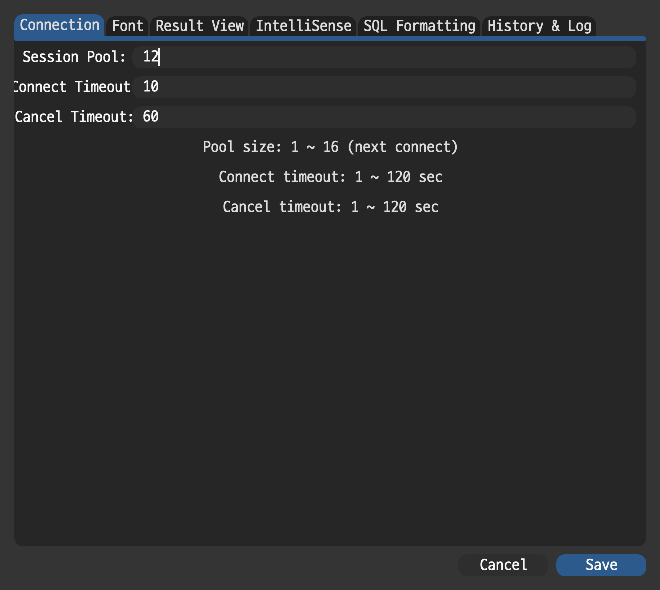
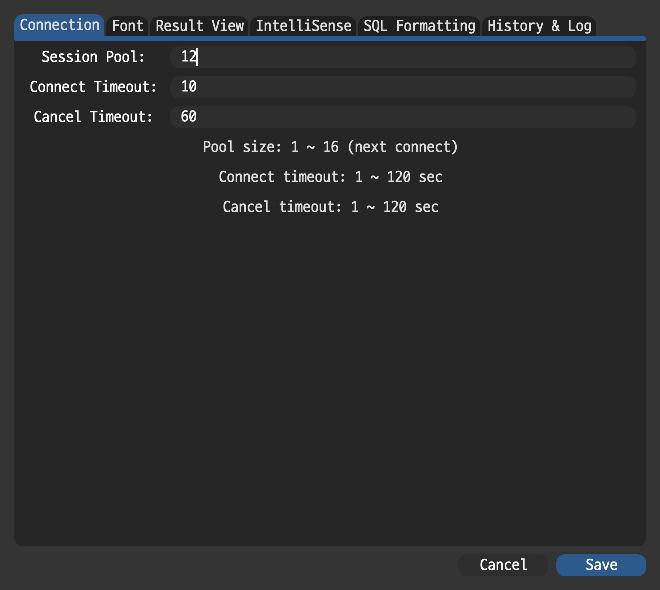
Measure the settings label column so long labels stop being clipped
The refreshed settings screenshot showed "Connect Timeout:" rendered as
"onnect Timeout". A Frame centers its label and clips both ends once the text
outgrows its box, and the label column was a fixed FORM_LABEL_WIDTH of 100px,
which "Connect Timeout:", "Cancel Timeout:", and "Context Window:" all exceed
at UI font size 16. The screenshot only exposed the Connection tab; the same
column is used by six.

The column is now measured from the widest label at the configured UI font
size, since that size is a setting and no constant can be right for all of it.
One width applies across every tab so the inputs stay aligned, and it never
goes below the old constant, so nothing that already fitted moves. Measuring
goes through Font::Helvetica because that is the slot apply_global_default_font
remaps to the configured UI font, so it measures what a label actually draws
with.

Also settle the two loose images. sql-formatting.png has been unreferenced
since an early doc update and is superseded by the before/after pair, so it is
removed. table-browse-order-popup.png was produced by the capture tour but
never shown; it goes into the README beside the WHERE popup, where it is the
evidence for the claim that IntelliSense works in both filter fields. Every
image under docs/images is now referenced, and every reference resolves.

Claude-Session: https://claude.ai/code/session_01CMnv3iN4EYBAmDyF7PbiyG

diff --git a/src/ui/settings_dialog.rs b/src/ui/settings_dialog.rs
@@ -50,6 +50,45 @@ pub struct FontSettings {
     pub app_log_limit: u32,
 }
 
+/// Every form label in this dialog, so one column width can fit them all.
+const FORM_LABELS: [&str; 13] = [
+    "Editor:",
+    "Result Font:",
+    "Global UI:",
+    "Screen Scale:",
+    "Cell Preview:",
+    "Lazy Fetch:",
+    "Context Window:",
+    "Popup Delay:",
+    "Session Pool:",
+    "Connect Timeout:",
+    "Cancel Timeout:",
+    "Comma Lists:",
+    "Right Margin:",
+];
+
+/// Width of the label column, wide enough for the longest label.
+///
+/// A `Frame` centers its label and clips both ends once the text outgrows its
+/// box, so a fixed [`FORM_LABEL_WIDTH`] silently ate the first character of
+/// `Connect Timeout:` and `Context Window:`. The UI font size is configurable,
+/// which is why the column is measured instead of assumed. `Font::Helvetica` is
+/// the slot [`apply_global_default_font`](crate::ui::font_settings) remaps to
+/// the configured UI font, so it measures what a label will actually draw with.
+fn form_label_width() -> i32 {
+    fltk::draw::set_font(fltk::enums::Font::Helvetica, fltk::app::font_size());
+    FORM_LABELS
+        .iter()
+        .map(|label| fltk::draw::measure(label, false).0)
+        .max()
+        .unwrap_or(0)
+        .saturating_add(FORM_LABEL_TEXT_GAP)
+        .max(FORM_LABEL_WIDTH)
+}
+
+/// Breathing room between the widest label and the input beside it.
+const FORM_LABEL_TEXT_GAP: i32 = 10;
+
 fn validate_size(label: &str, value: &str) -> Option<u32> {
     match value.trim().parse::<u32>() {
         Ok(size) if (MIN_FONT_SIZE..=MAX_FONT_SIZE).contains(&size) => Some(size),
@@ -312,6 +351,10 @@ pub fn show_settings_dialog(config: &AppConfig) -> Option<FontSettings> {
     dialog.set_color(theme::panel_raised());
     dialog.make_modal(true);
 
+    // One column width for every tab, so the inputs line up across them and no
+    // label is clipped at the configured UI font size.
+    let label_width = form_label_width();
+
     let content_margin = DIALOG_MARGIN + 4;
     let content_x = content_margin;
     let content_y = content_margin;
@@ -359,7 +402,7 @@ pub fn show_settings_dialog(config: &AppConfig) -> Option<FontSettings> {
     search_input.set_text_color(theme::text_primary());
     theme::apply_text_input_inset(&mut search_input);
     search_input.set_trigger(CallbackTrigger::Changed);
-    search_row.fixed(&search_label, FORM_LABEL_WIDTH);
+    search_row.fixed(&search_label, label_width);
     search_row.end();
     font_flex.fixed(&search_row, INPUT_ROW_HEIGHT);
 
@@ -384,7 +427,7 @@ pub fn show_settings_dialog(config: &AppConfig) -> Option<FontSettings> {
     }
     selected_value.set_label_color(theme::text_secondary());
     selected_value.set_align(Align::Left | Align::Inside);
-    selected_row.fixed(&selected_label, FORM_LABEL_WIDTH);
+    selected_row.fixed(&selected_label, label_width);
     selected_row.end();
     font_flex.fixed(&selected_row, CHECKBOX_ROW_HEIGHT);
 
@@ -393,7 +436,7 @@ pub fn show_settings_dialog(config: &AppConfig) -> Option<FontSettings> {
     editor_size_row.set_spacing(DIALOG_SPACING);
     let mut editor_size_label = Frame::default().with_label("Editor:");
     editor_size_label.set_label_color(theme::text_primary());
-    editor_size_row.fixed(&editor_size_label, FORM_LABEL_WIDTH);
+    editor_size_row.fixed(&editor_size_label, label_width);
     let mut editor_size_input = IntInput::default();
     editor_size_input.set_value(&config.normalized_editor_font_size().to_string());
     editor_size_input.set_color(theme::input_bg());
@@ -407,7 +450,7 @@ pub fn show_settings_dialog(config: &AppConfig) -> Option<FontSettings> {
     result_size_row.set_spacing(DIALOG_SPACING);
     let mut result_size_label = Frame::default().with_label("Result Font:");
     result_size_label.set_label_color(theme::text_primary());
-    result_size_row.fixed(&result_size_label, FORM_LABEL_WIDTH);
+    result_size_row.fixed(&result_size_label, label_width);
     let mut result_size_input = IntInput::default();
     result_size_input.set_value(&config.normalized_result_font_size().to_string());
     result_size_input.set_color(theme::input_bg());
@@ -421,7 +464,7 @@ pub fn show_settings_dialog(config: &AppConfig) -> Option<FontSettings> {
     global_size_row.set_spacing(DIALOG_SPACING);
     let mut global_size_label = Frame::default().with_label("Global UI:");
     global_size_label.set_label_color(theme::text_primary());
-    global_size_row.fixed(&global_size_label, FORM_LABEL_WIDTH);
+    global_size_row.fixed(&global_size_label, label_width);
     let mut global_size_input = IntInput::default();
     global_size_input.set_value(&config.normalized_ui_font_size().to_string());
     global_size_input.set_color(theme::input_bg());
@@ -435,7 +478,7 @@ pub fn show_settings_dialog(config: &AppConfig) -> Option<FontSettings> {
     ui_scale_row.set_spacing(DIALOG_SPACING);
     let mut ui_scale_label = Frame::default().with_label("Screen Scale:");
     ui_scale_label.set_label_color(theme::text_primary());
-    ui_scale_row.fixed(&ui_scale_label, FORM_LABEL_WIDTH);
+    ui_scale_row.fixed(&ui_scale_label, label_width);
     let mut ui_scale_input = IntInput::default();
     ui_scale_input.set_value(&config.normalized_ui_scale_percent().to_string());
     ui_scale_input.set_color(theme::input_bg());
@@ -485,7 +528,7 @@ pub fn show_settings_dialog(config: &AppConfig) -> Option<FontSettings> {
     result_cell_max_row.set_spacing(DIALOG_SPACING);
     let mut result_cell_max_label = Frame::default().with_label("Cell Preview:");
     result_cell_max_label.set_label_color(theme::text_primary());
-    result_cell_max_row.fixed(&result_cell_max_label, FORM_LABEL_WIDTH);
+    result_cell_max_row.fixed(&result_cell_max_label, label_width);
     let mut result_cell_max_input = IntInput::default();
     result_cell_max_input.set_value(&config.result_cell_max_chars.to_string());
     result_cell_max_input.set_color(theme::input_bg());
@@ -499,7 +542,7 @@ pub fn show_settings_dialog(config: &AppConfig) -> Option<FontSettings> {
     lazy_fetch_batch_row.set_spacing(DIALOG_SPACING);
     let mut lazy_fetch_batch_label = Frame::default().with_label("Lazy Fetch:");
     lazy_fetch_batch_label.set_label_color(theme::text_primary());
-    lazy_fetch_batch_row.fixed(&lazy_fetch_batch_label, FORM_LABEL_WIDTH);
+    lazy_fetch_batch_row.fixed(&lazy_fetch_batch_label, label_width);
     let mut lazy_fetch_batch_input = IntInput::default();
     lazy_fetch_batch_input.set_value(&config.normalized_lazy_fetch_batch_size().to_string());
     lazy_fetch_batch_input.set_color(theme::input_bg());
@@ -549,7 +592,7 @@ pub fn show_settings_dialog(config: &AppConfig) -> Option<FontSettings> {
     context_window_row.set_spacing(DIALOG_SPACING);
     let mut context_window_label = Frame::default().with_label("Context Window:");
     context_window_label.set_label_color(theme::text_primary());
-    context_window_row.fixed(&context_window_label, FORM_LABEL_WIDTH);
+    context_window_row.fixed(&context_window_label, label_width);
     let mut context_window_input = IntInput::default();
     context_window_input.set_value(
         &config
@@ -567,7 +610,7 @@ pub fn show_settings_dialog(config: &AppConfig) -> Option<FontSettings> {
     popup_delay_row.set_spacing(DIALOG_SPACING);
     let mut popup_delay_label = Frame::default().with_label("Popup Delay:");
     popup_delay_label.set_label_color(theme::text_primary());
-    popup_delay_row.fixed(&popup_delay_label, FORM_LABEL_WIDTH);
+    popup_delay_row.fixed(&popup_delay_label, label_width);
     let mut popup_delay_input = IntInput::default();
     popup_delay_input.set_value(&config.normalized_intellisense_popup_delay_ms().to_string());
     popup_delay_input.set_color(theme::input_bg());
@@ -617,7 +660,7 @@ pub fn show_settings_dialog(config: &AppConfig) -> Option<FontSettings> {
     pool_size_row.set_spacing(DIALOG_SPACING);
     let mut pool_size_label = Frame::default().with_label("Session Pool:");
     pool_size_label.set_label_color(theme::text_primary());
-    pool_size_row.fixed(&pool_size_label, FORM_LABEL_WIDTH);
+    pool_size_row.fixed(&pool_size_label, label_width);
     let mut pool_size_input = IntInput::default();
     pool_size_input.set_value(&config.normalized_connection_pool_size().to_string());
     pool_size_input.set_color(theme::input_bg());
@@ -631,7 +674,7 @@ pub fn show_settings_dialog(config: &AppConfig) -> Option<FontSettings> {
     connect_timeout_row.set_spacing(DIALOG_SPACING);
     let mut connect_timeout_label = Frame::default().with_label("Connect Timeout:");
     connect_timeout_label.set_label_color(theme::text_primary());
-    connect_timeout_row.fixed(&connect_timeout_label, FORM_LABEL_WIDTH);
+    connect_timeout_row.fixed(&connect_timeout_label, label_width);
     let mut connect_timeout_input = IntInput::default();
     connect_timeout_input.set_value(&config.normalized_connect_timeout_seconds().to_string());
     connect_timeout_input.set_color(theme::input_bg());
@@ -645,7 +688,7 @@ pub fn show_settings_dialog(config: &AppConfig) -> Option<FontSettings> {
     cancel_timeout_row.set_spacing(DIALOG_SPACING);
     let mut cancel_timeout_label = Frame::default().with_label("Cancel Timeout:");
     cancel_timeout_label.set_label_color(theme::text_primary());
-    cancel_timeout_row.fixed(&cancel_timeout_label, FORM_LABEL_WIDTH);
+    cancel_timeout_row.fixed(&cancel_timeout_label, label_width);
     let mut cancel_timeout_input = IntInput::default();
     cancel_timeout_input.set_value(&config.normalized_cancel_timeout_seconds().to_string());
     cancel_timeout_input.set_color(theme::input_bg());
@@ -703,7 +746,7 @@ pub fn show_settings_dialog(config: &AppConfig) -> Option<FontSettings> {
     comma_layout_row.set_spacing(DIALOG_SPACING);
     let mut comma_layout_label = Frame::default().with_label("Comma Lists:");
     comma_layout_label.set_label_color(theme::text_primary());
-    comma_layout_row.fixed(&comma_layout_label, FORM_LABEL_WIDTH);
+    comma_layout_row.fixed(&comma_layout_label, label_width);
     let mut comma_layout_choice = Choice::default();
     comma_layout_choice.add_choice("Stacked|Wrapped");
     comma_layout_choice.set_value(match config.sql_comma_list_layout {
@@ -720,7 +763,7 @@ pub fn show_settings_dialog(config: &AppConfig) -> Option<FontSettings> {
     right_margin_row.set_spacing(DIALOG_SPACING);
     let mut right_margin_label = Frame::default().with_label("Right Margin:");
     right_margin_label.set_label_color(theme::text_primary());
-    right_margin_row.fixed(&right_margin_label, FORM_LABEL_WIDTH);
+    right_margin_row.fixed(&right_margin_label, label_width);
     let mut right_margin_input = IntInput::default();
     right_margin_input.set_value(&config.normalized_sql_format_right_margin().to_string());
     right_margin_input.set_color(theme::input_bg());

diff --git a/README.md b/README.md
@@ -239,6 +239,8 @@ moves above the field or stays within the screen edge when space is limited.
 
 ![WHERE IntelliSense positioned at the text cursor](docs/images/table-browse-popup.png)
 
+![ORDER BY IntelliSense listing the table's columns](docs/images/table-browse-order-popup.png)
+
 Use the first, previous, next, and last controls below the grid and choose a
 page size of 10, 100, 250, 500, or 1,000 rows. Table browsing issues a bounded
 query for each page—Oracle uses `ROWNUM`, while MySQL and MariaDB use
